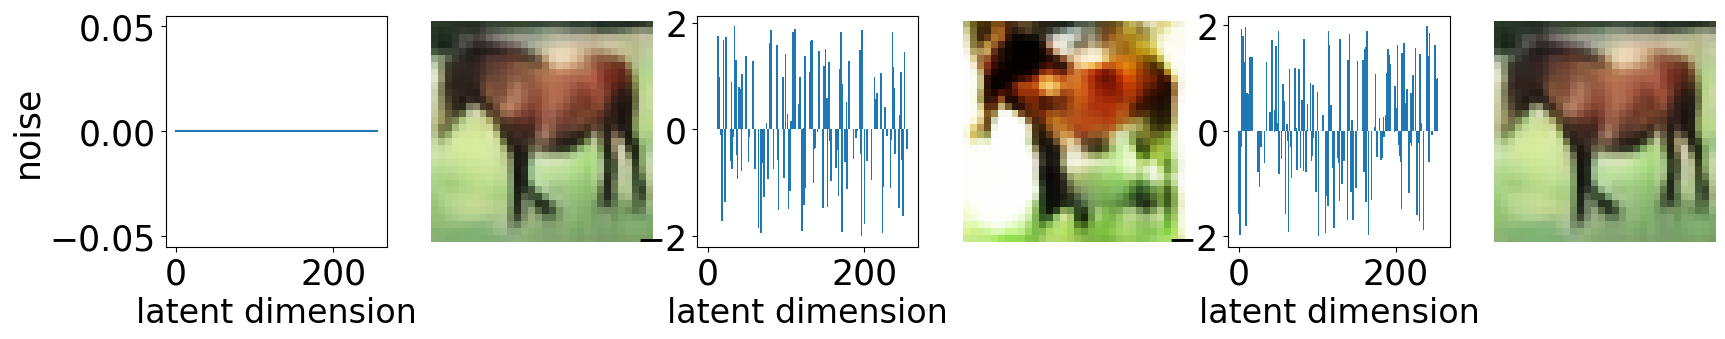
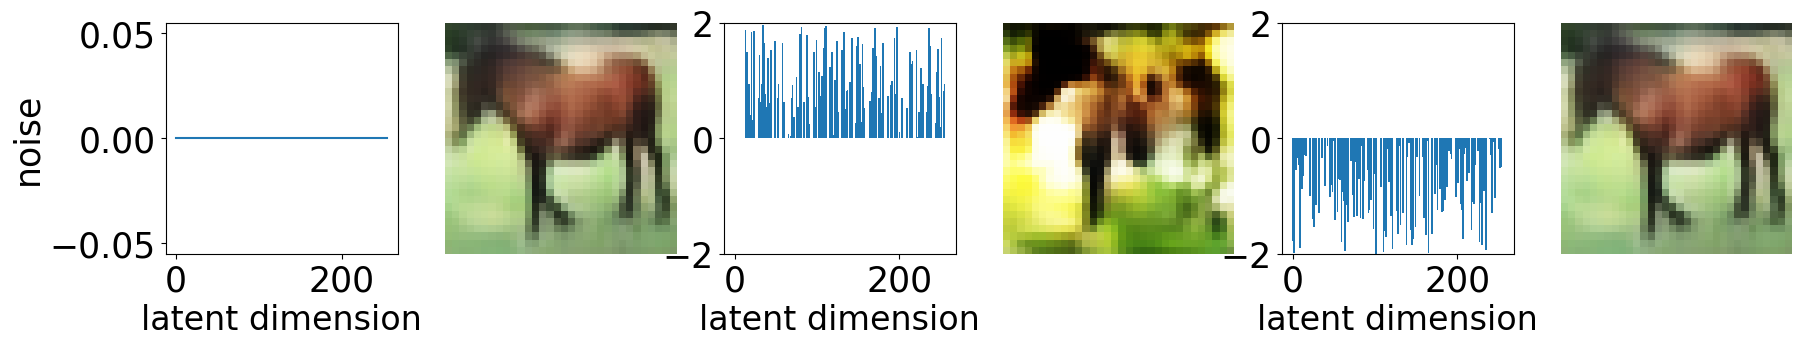
update 0.05 blur

diff --git a/result.py b/result.py
@@ -333,12 +333,12 @@ zeros = np.zeros((args["latent_dim"],))
 
 signal_noise = np.zeros((args["latent_dim"],))
 signal_noise[V_nat[k] > delta] = tf.random.uniform(
-    (sum(V_nat[k] > delta),), -2, 2
+    (sum(V_nat[k] > delta),), 0, 2
 ).numpy()
 
 signal_keep = np.zeros((args["latent_dim"],))
 signal_keep[V_nat[k] <= delta] = tf.random.uniform(
-    (sum(V_nat[k] <= delta),), -2, 2
+    (sum(V_nat[k] <= delta),), -2, 0
 ).numpy()
 
 noise_z += signal_noise
@@ -351,7 +351,7 @@ clear_img = model.decode(perturbed_z[0][None, ...], training=False)[-1].numpy()
 noise_img = model.decode(perturbed_z[1][None, ...], training=False)[-1].numpy()
 keep_img = model.decode(perturbed_z[2][None, ...], training=False)[-1].numpy()
 
-fig, axes = plt.subplots(1, 6, figsize=(20, 3))
+fig, axes = plt.subplots(1, 6, figsize=(21, 3))
 axes.flatten()[0].plot(signals[0])
 axes.flatten()[0].tick_params(labelsize=25)
 axes.flatten()[0].set_xlabel("latent dimension", fontsize=24)
@@ -362,12 +362,14 @@ axes.flatten()[1].axis("off")
 axes.flatten()[2].bar(np.arange(args["latent_dim"]), signals[1], width=2)
 axes.flatten()[2].tick_params(labelsize=25)
 axes.flatten()[2].set_xlabel("latent dimension", fontsize=24)
+axes.flatten()[2].set_ylim(-2, 2)
 axes.flatten()[3].imshow((noise_img + 1.0) / 2.0)
 axes.flatten()[3].axis("off")
 
 axes.flatten()[4].bar(np.arange(args["latent_dim"]), signals[2], width=2)
 axes.flatten()[4].tick_params(labelsize=25)
 axes.flatten()[4].set_xlabel("latent dimension", fontsize=24)
+axes.flatten()[4].set_ylim(-2, 2)
 axes.flatten()[5].imshow((keep_img + 1.0) / 2.0)
 axes.flatten()[5].axis("off")
 
